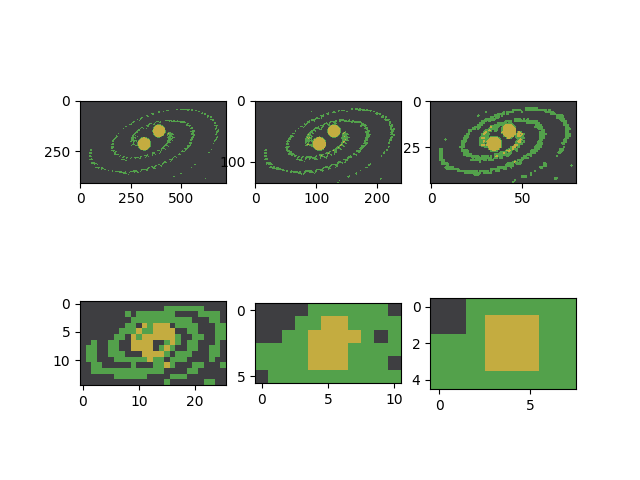
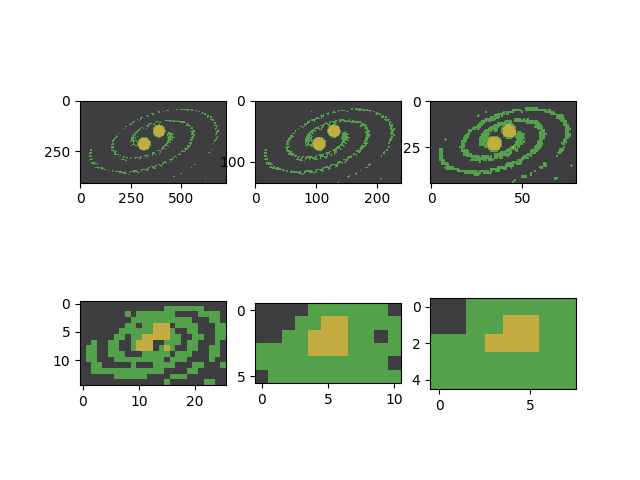
Added test images and plotting function for grid games

diff --git a/src/image_gen.py b/src/image_gen.py
@@ -1,4 +1,4 @@
-from PIL import Image
+from PIL import Image, ImageFilter
 import matplotlib
 import numpy as np
 import matplotlib.pyplot as plt
@@ -14,20 +14,21 @@ DARK_GRAY = (58, 58, 60)
 
 test_file = "images/test1.jpg"
 
-def image_mat(file, save=False):
+def image_mat(file, lower_bound, middle_bound, save=False):
     img = Image.open(file)
     greyImg = Image.open(file).convert('L')
+    
     width, height = img.size
     imgMatrix = []
 
     for x in range(width):
         temp = []
         for y in range(height):
-            if greyImg.getpixel((x, y)) < int(255*0.4):
+            if greyImg.getpixel((x, y)) < int(255*lower_bound):
                 greyImg.putpixel((x, y), 0)
                 temp.append(0)
                 img.putpixel((x, y), DARK_GRAY)
-            elif greyImg.getpixel((x, y)) >= int(255*0.4) and greyImg.getpixel((x, y)) < int(255*0.6):
+            elif greyImg.getpixel((x, y)) >= int(255*lower_bound) and greyImg.getpixel((x, y)) < int(255*middle_bound):
                 greyImg.putpixel((x, y), 128)
                 temp.append(1)
                 img.putpixel((x, y), GREEN)
@@ -84,6 +85,11 @@ cmap = matplotlib.colors.ListedColormap([RGBtoColormap(DARK_GRAY), RGBtoColormap
 bounds=[-0.25,0.25,1.25,2]
 norm = matplotlib.colors.BoundaryNorm(bounds, cmap.N)
 
+def viewImage(image_matrix):
+    output_mat = np.flip(np.rot90(image_matrix, k=3), 1)
+    plt.imshow(output_mat, cmap=cmap, norm=norm)
+    plt.show()
+
 def coarseFig(coarseN, rows, cols, image_matrix, save=False):
     fig, ax = plt.subplots(nrows=rows, ncols=cols)
 
@@ -99,26 +105,68 @@ def coarseFig(coarseN, rows, cols, image_matrix, save=False):
         plt.savefig(f'images/outputCoarseImage.png')
     plt.show()
 
+def divideImg(image_matrix, coarseVal):
+    newCoarseMatplot = coarseImage(image_matrix, coarseVal)[1]
+    output_mat = np.flip(np.rot90(newCoarseMatplot, k=3), 1)
+
+    imgRowNum = len(output_mat)
+    imgColNum = len(output_mat[0])
+    totRows = floor(imgRowNum/6)
+    totCols = floor(imgColNum/5)
+    print(totRows, totCols)
+    newMat = output_mat[:int(totRows*6), :int(totCols*5)]
+
+    pieces = []
+    for x in range(totRows):
+        inner_mat = []
+        for y in range(totCols):
+            inner_mat.append(newMat[int(6*x):int(6*(x+1)),int(5*y):int(5*(y+1))])
+        pieces.append(inner_mat)
+    return newMat, pieces
+
+def divideImgPlot(image_matrix, pieces):
+    ax = plt.axes()
+    plt.imshow(image_matrix, cmap=cmap, norm=norm)
+    ax.set_yticks([i*6 for i in range(len(pieces))])
+    ax.set_xticks([i*5 for i in range(len(pieces[0]))])
+    plt.grid(color="white", linestyle='-')
+    plt.show()
+
 coarseN = [[1, 3, 9],
           [27, 64, 81]]
-imgMatrix = image_mat(test_file)
+imgMatrix = image_mat(test_file, lower_bound=0.4, middle_bound=0.7)
 # coarseFig(coarseN, 2, 3,imgMatrix , save=True)
-newCoarseMatplot = coarseImage(imgMatrix, 1)[1]
-output_mat = np.flip(np.rot90(newCoarseMatplot, k=3), 1)
+
+testMat, pieces = divideImg(imgMatrix, 3)
+
+divideImgPlot(testMat, pieces)
 
 
-imgRowNum = len(output_mat)
-imgColNum = len(output_mat[0])
-totalNumMats = 0
+# rows = len(pieces)
+# cols = len(pieces[0])
+# fig, ax = plt.subplots(nrows=rows, ncols=cols)
+# for i in range(rows):
+#     for j in range(cols):
+#         ax[i,j].set_xticks([])
+#         ax[i,j].set_yticks([])
+#         ax[i,j].imshow(pieces[i][j], cmap= cmap, norm=norm)
+# plt.show()
 
-if floor(imgRowNum/6) <= floor(imgColNum/5):
-    totalNumMats = floor(imgRowNum/6)
-else:
-    totalNumMats = floor(imgColNum/5)
-print(totalNumMats)
-newMat = output_mat[:totalNumMats*5, :totalNumMats*6]
-plt.imshow(newMat, cmap=cmap, norm=norm)
-plt.show()
+# 
+# other_file = "images/lava-flow.jpg"
+# mat = image_mat(other_file, 0.4, 0.6)
+# newCoarseMatplot = coarseImage(mat, 2)[1]
+
+
+# other_file = "images/wave.jpg"
+# mat = image_mat(other_file, 0.4, 0.7)
+# newCoarseMatplot = coarseImage(mat, 3)[1]
+
+# other_file = "images/Pug-dog.jpg"
+# mat = image_mat(other_file, 0.35, 0.5)
+# coarseImg = coarseImage(mat, 1)[1]
+# viewImage(coarseImg)
+
 
 
 
